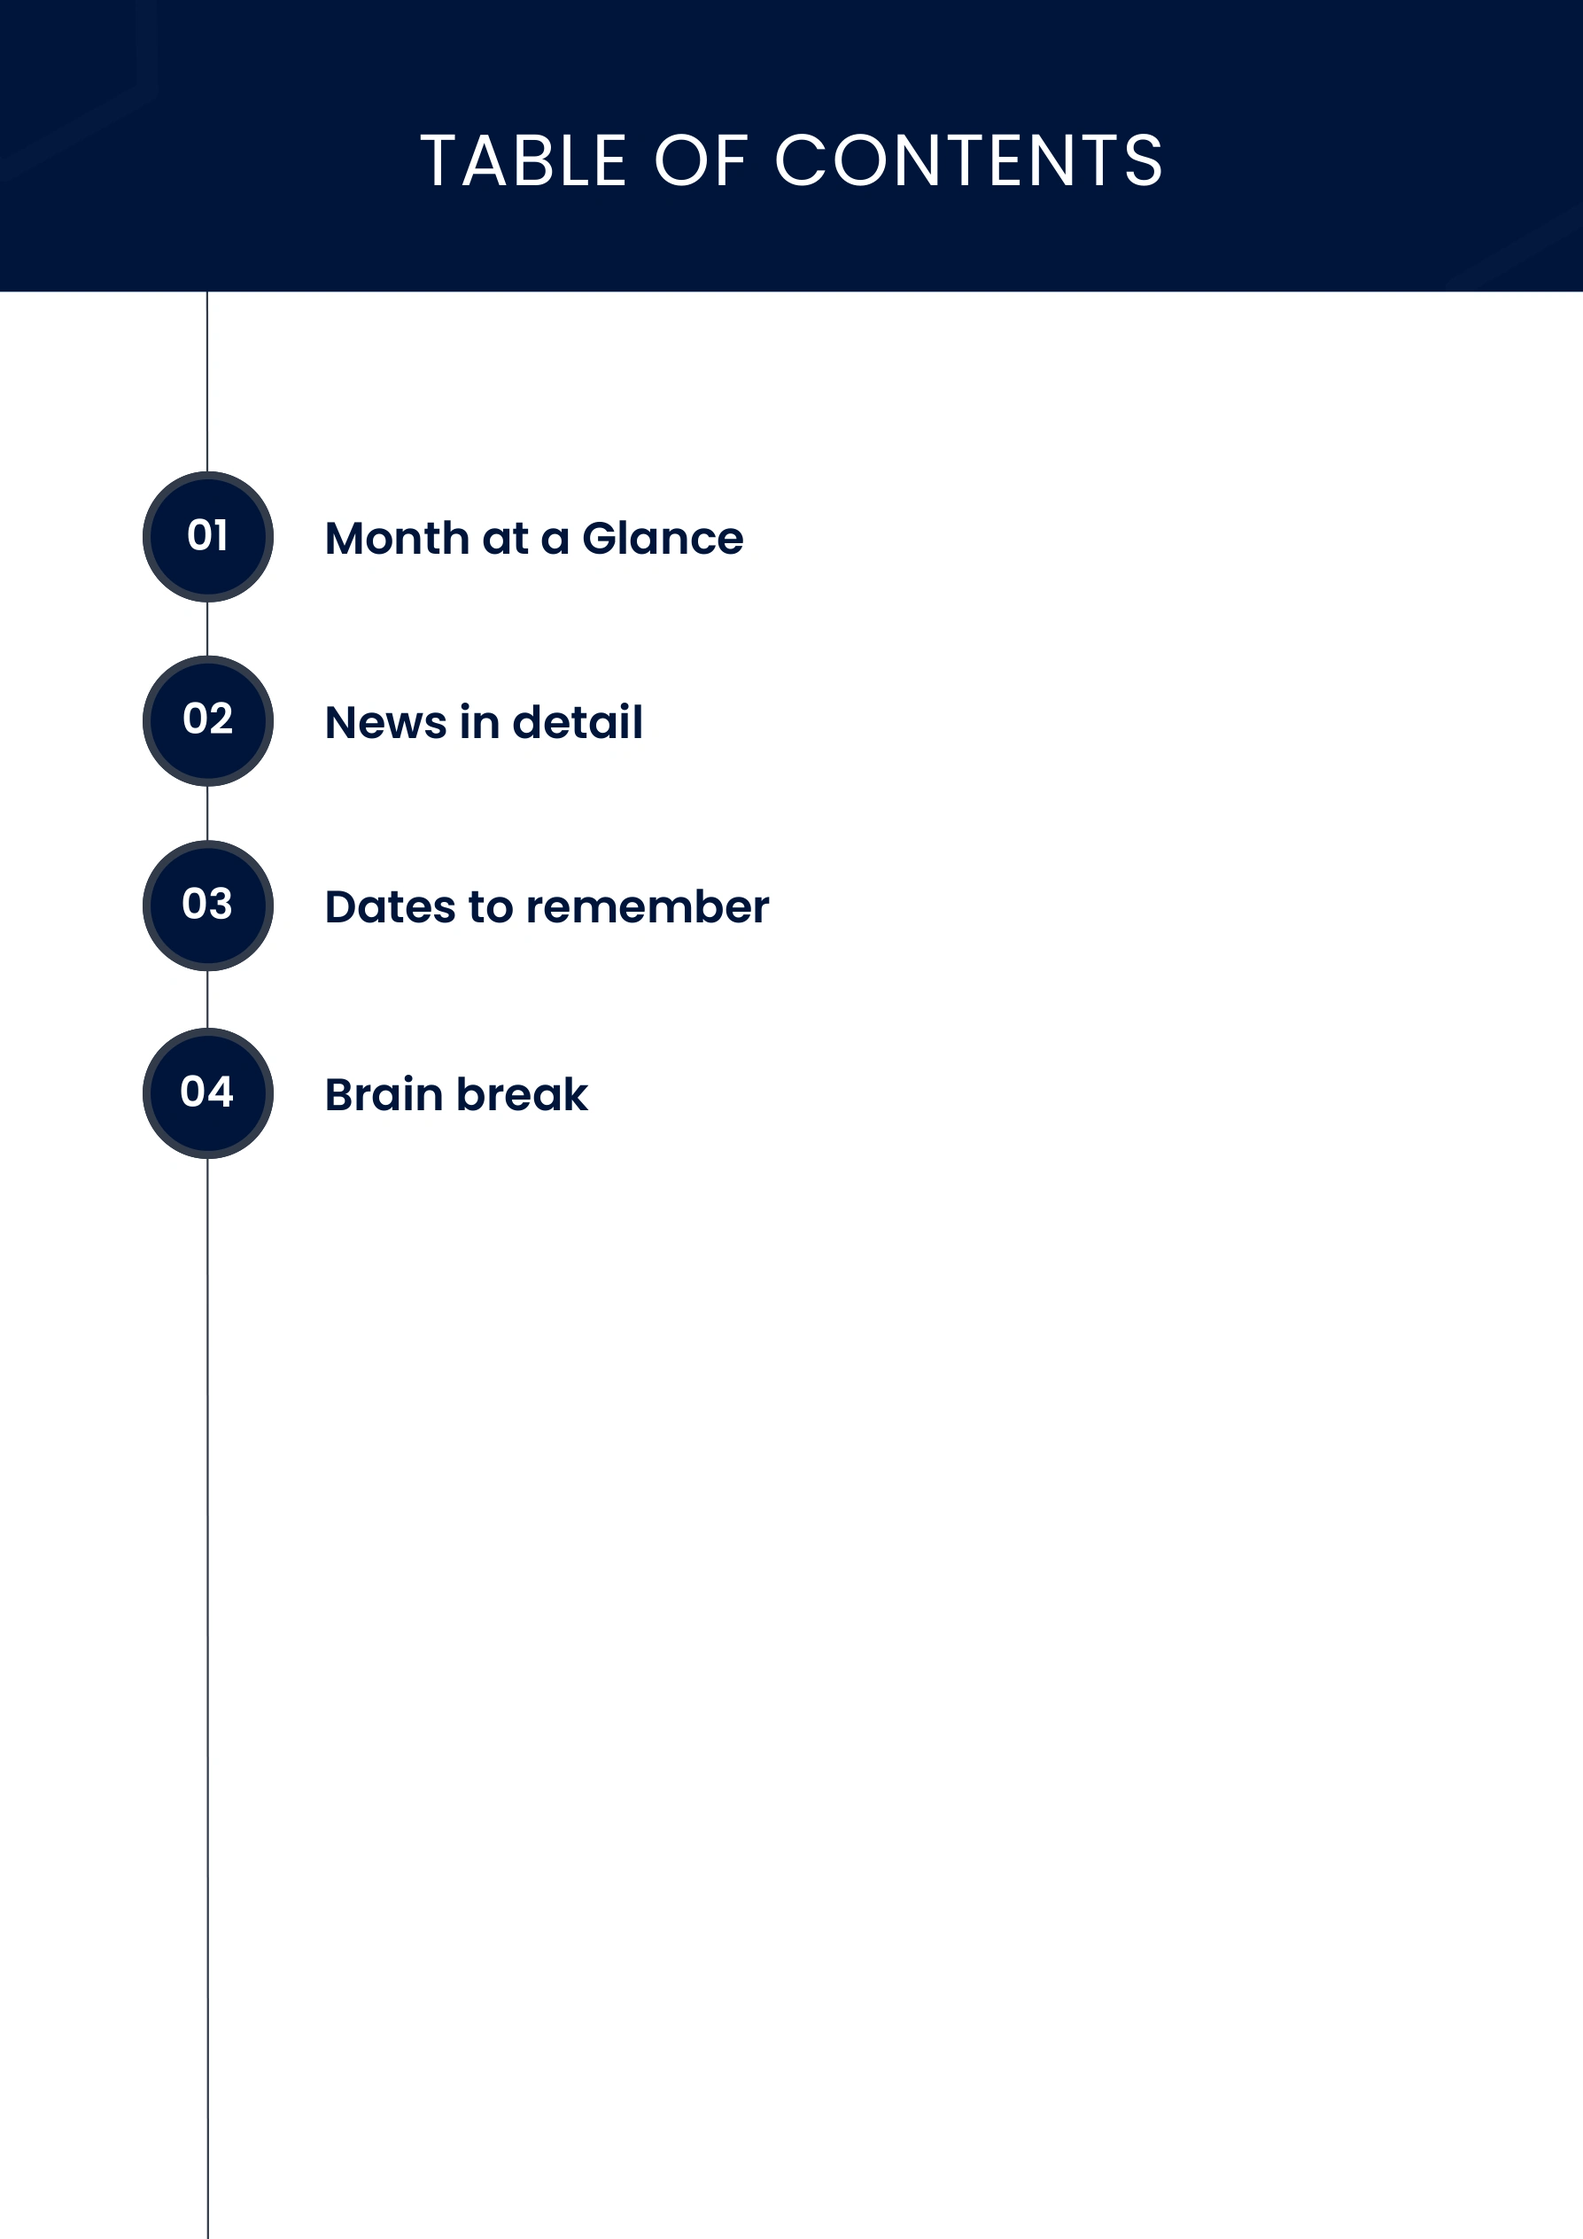
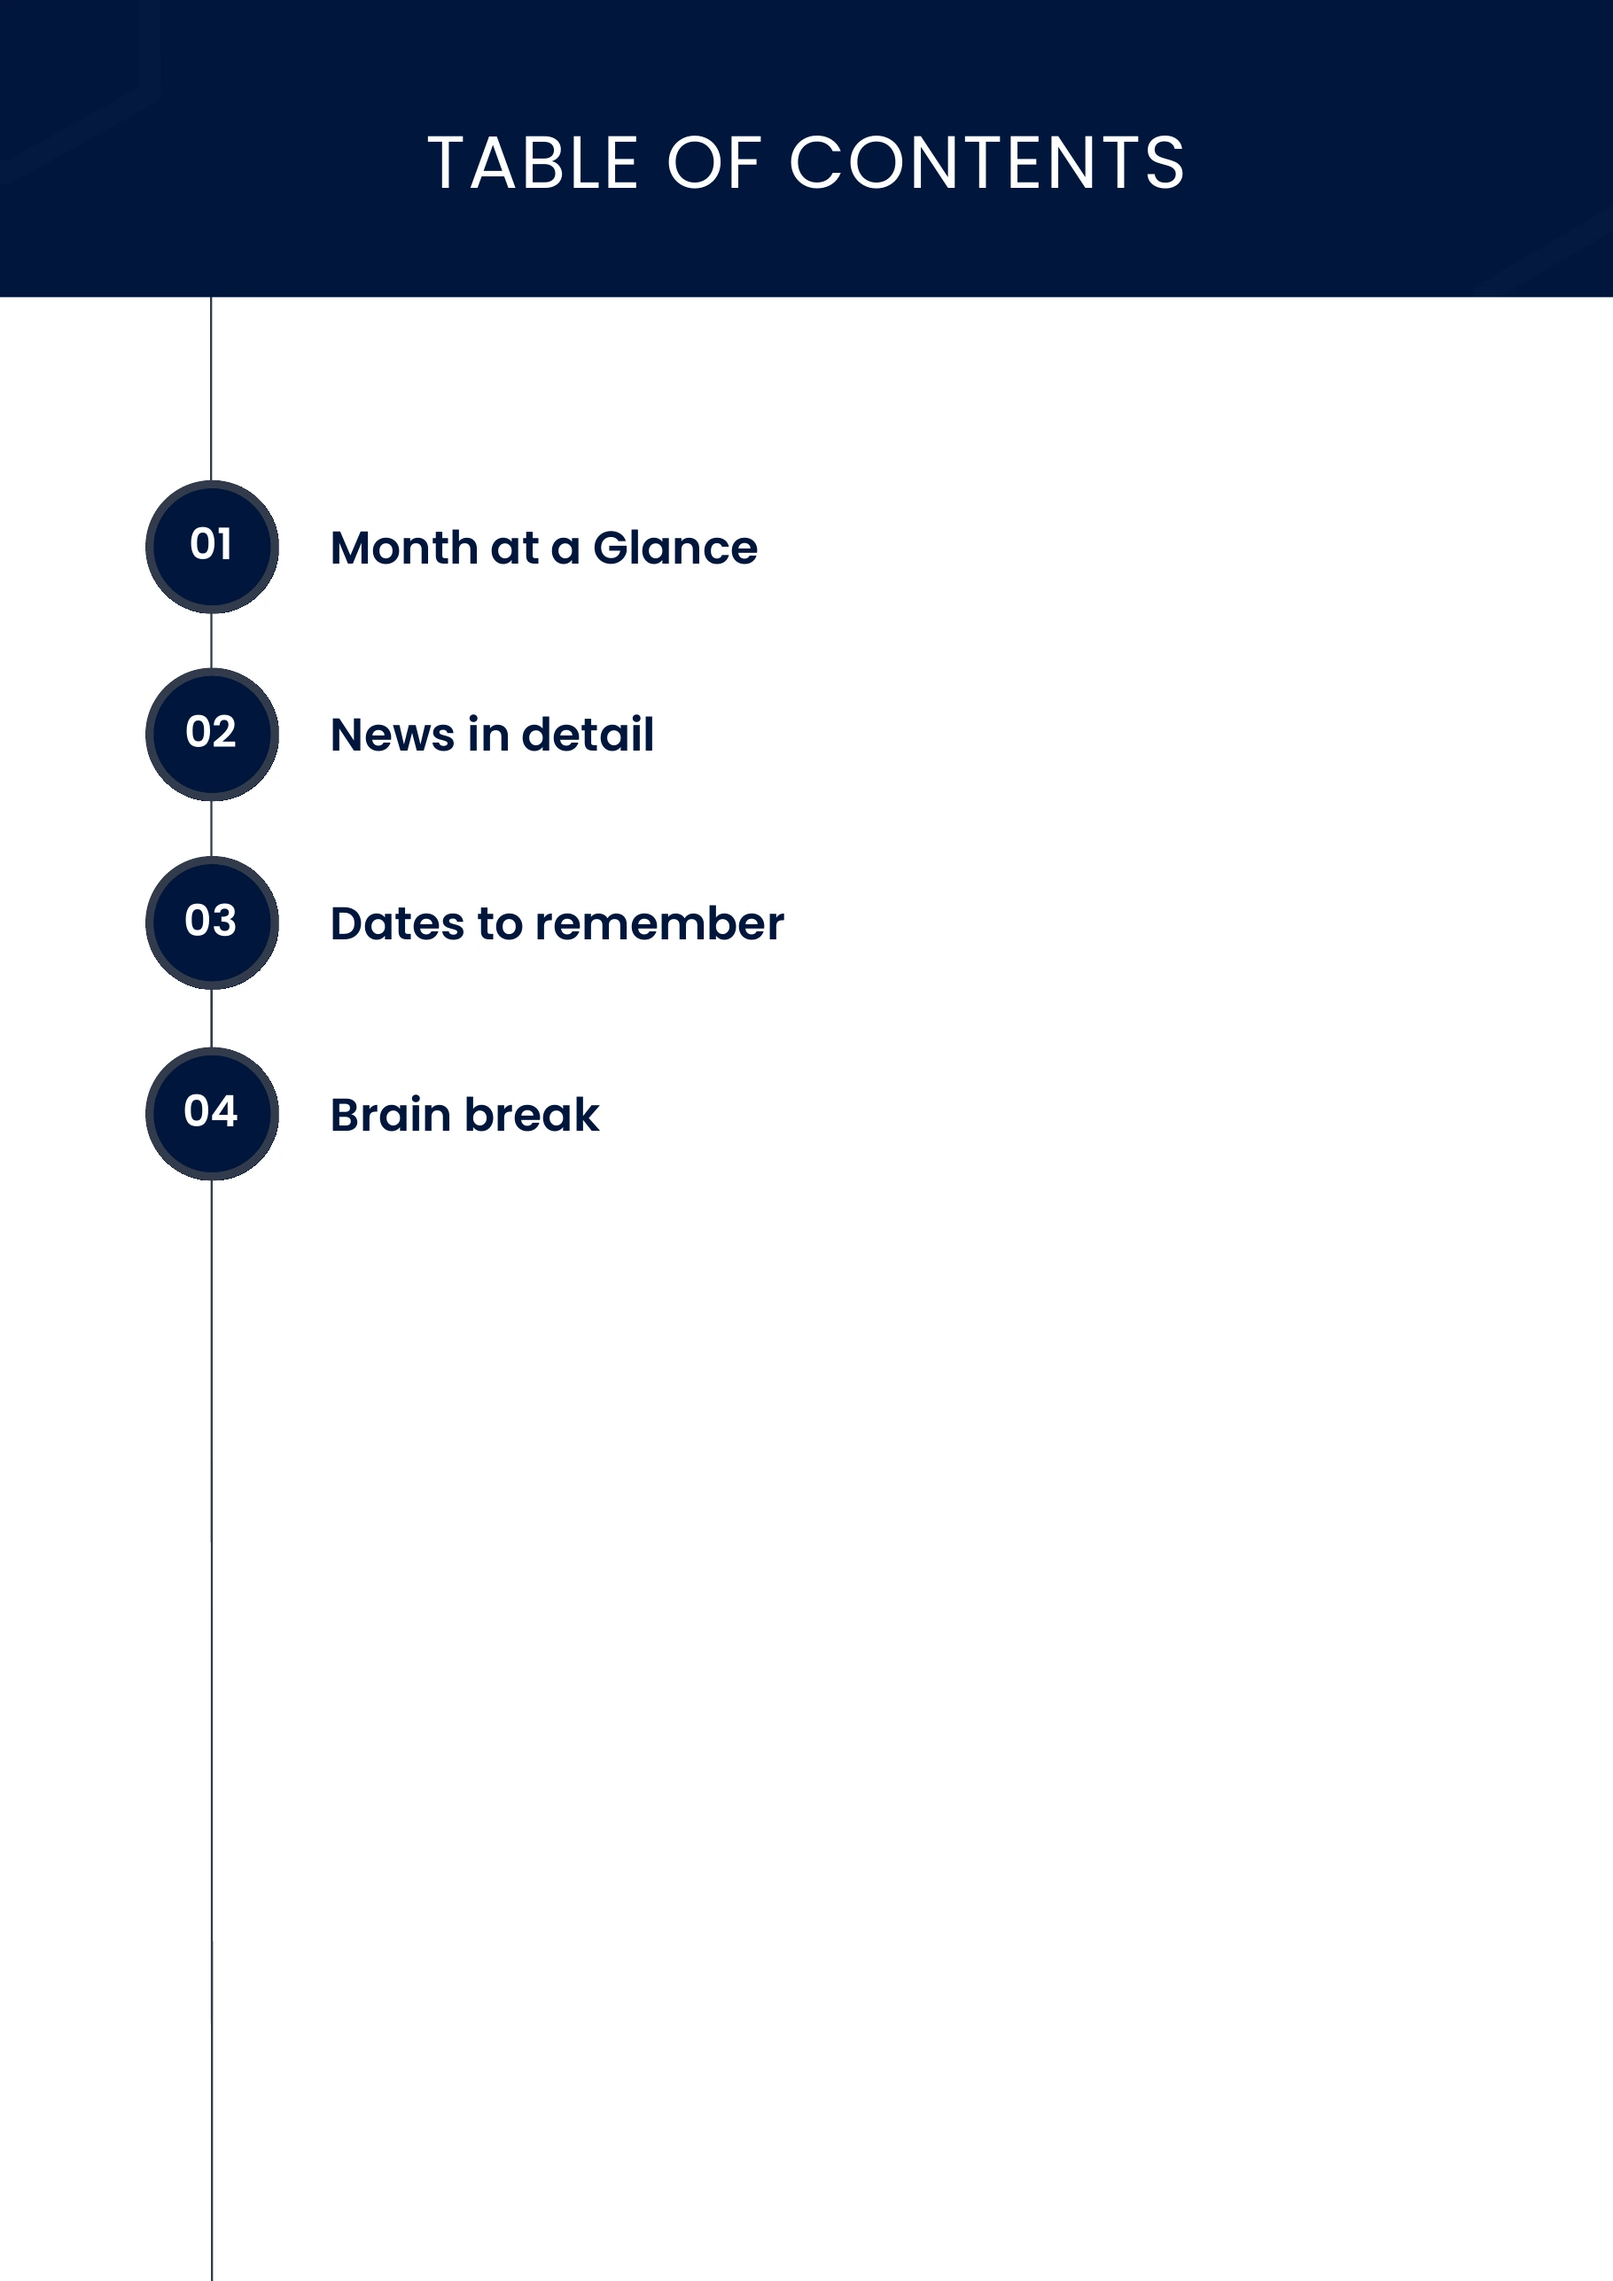
Improve newsletter page preview clarity

diff --git a/publication.html b/publication.html
@@ -72,8 +72,8 @@
           <div class="magazine-cover-intro" id="magazine-cover-intro">
             <button class="magazine-cover-trigger" type="button" data-open-magazine aria-controls="magazine-book-scene" aria-label="Open the interactive newsletter reader">
               <span class="magazine-preview-spread" aria-hidden="true">
-                <span class="magazine-preview-page"><img src="assets/newsletter/pages/page-02.webp?v=hires1" alt="" fetchpriority="high"></span>
-                <span class="magazine-preview-page"><img src="assets/newsletter/pages/page-03.webp?v=hires1" alt="" fetchpriority="high"></span>
+                <span class="magazine-preview-page"><img src="assets/newsletter/pages/page-02.webp?v=hires2" alt="" fetchpriority="high"></span>
+                <span class="magazine-preview-page"><img src="assets/newsletter/pages/page-03.webp?v=hires2" alt="" fetchpriority="high"></span>
                 <span class="magazine-preview-gutter"></span>
               </span>
             </button>

diff --git a/assets/js/magazine.js b/assets/js/magazine.js
@@ -98,7 +98,7 @@
 
   var pages = [];
   for (var index = 1; index <= pageCount; index += 1) {
-    pages.push('assets/newsletter/pages/page-' + String(index).padStart(2, '0') + '.webp?v=hires1');
+    pages.push('assets/newsletter/pages/page-' + String(index).padStart(2, '0') + '.webp?v=hires2');
   }
   pageFlip.loadFromImages(pages);
 
